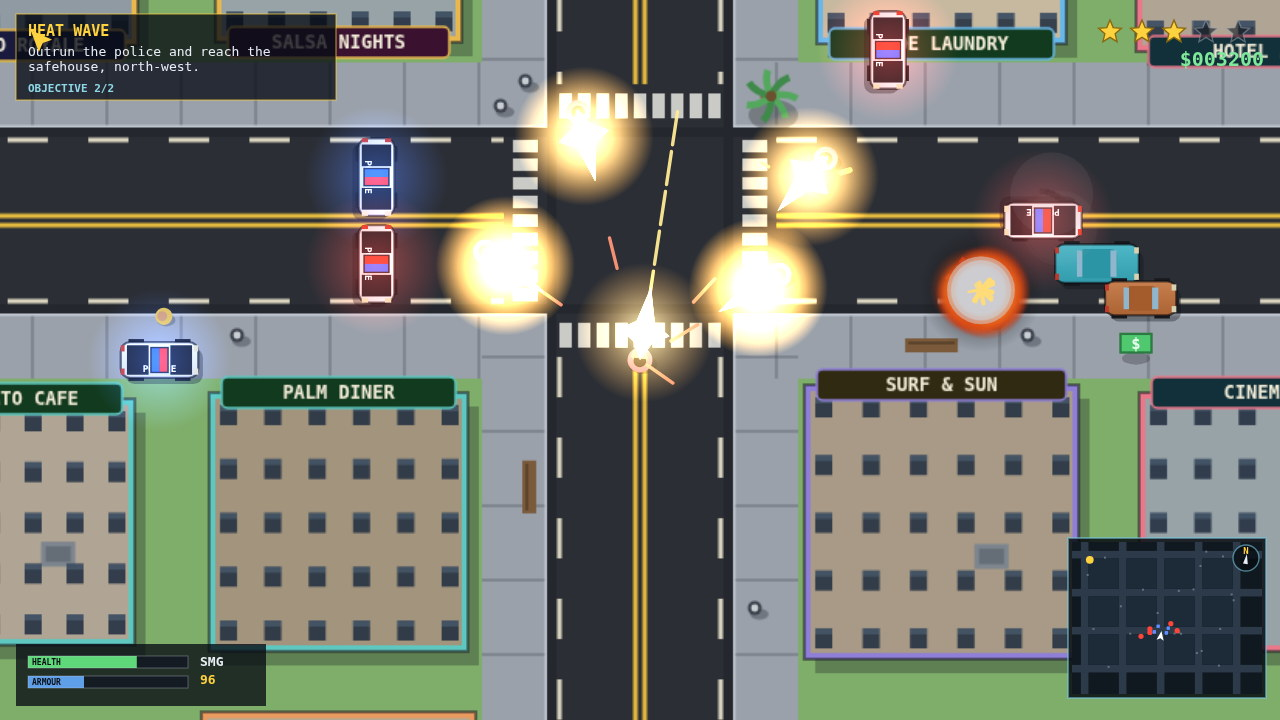
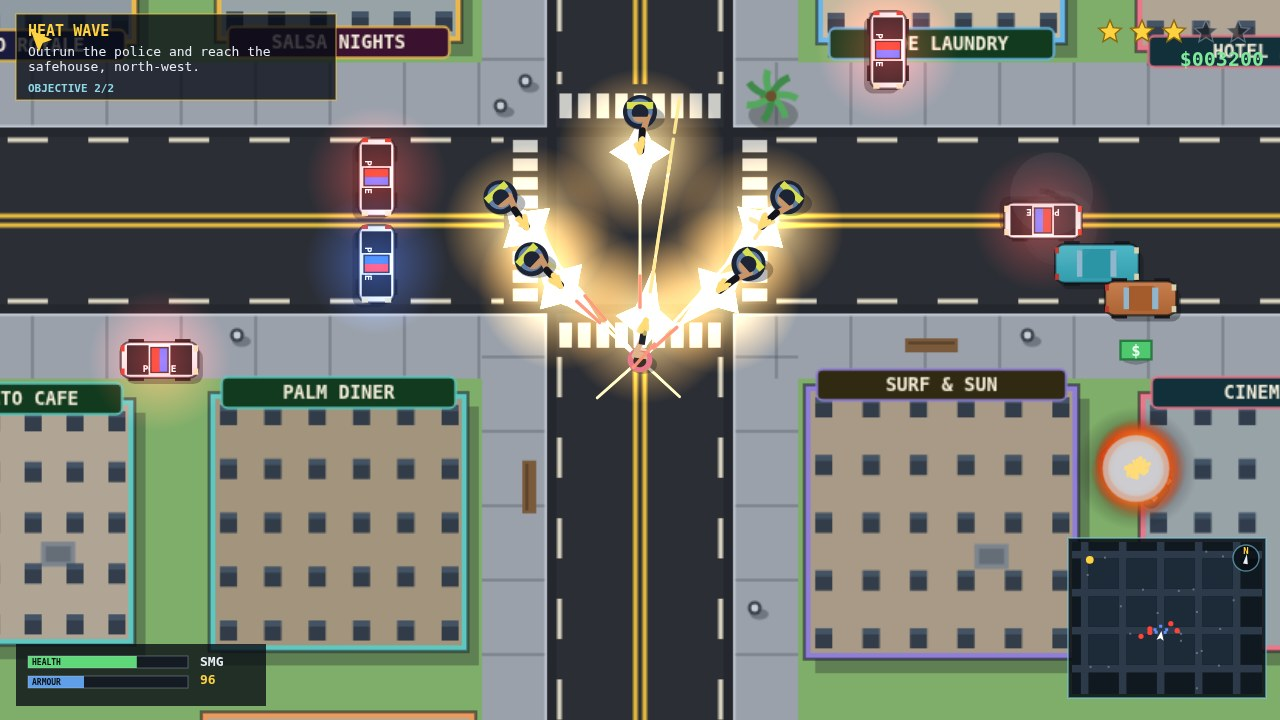
README with make.fun badges; re-shoot 03-foot so the police firefight reads
- Add repository README: three live gta6-01 badges, game overview, controls,
  run instructions and module layout.
- police.js: larger hi-vis officer silhouette (dark uniform, lighter vest,
  hi-vis shoulder band, badge, drawn weapon pointed at the player).
- effects.js: bigger/brighter staged muzzle flash with hot core, sparks and a
  thin tracer; split flashes into drawFlashes rendered under the actors so
  they no longer paint over the officers.
- main.js stageFoot: five-officer squad arc on the road/pavement by the
  crosswalk, fixed cast (no mid-tick deployments), camera shake reset, single
  explosion moved clear of the squad; muzzle flashes at true weapon muzzles.
- Re-capture only screenshots/03-foot.jpg (headless Chrome, port 8091).

diff --git a/game/src/main.js b/game/src/main.js
@@ -6,7 +6,7 @@ import { S, stars, addHeat, say } from "./state.js";
 import { reseed, rand, clamp, TAU } from "./math.js";
 import { W, H, AVENUES, STREETS, laneCoord } from "./world.js";
 import { generateCity } from "./citygen.js";
-import { applyCamera, updateCamera, setZoom, addShake } from "./camera.js";
+import { applyCamera, updateCamera, setZoom } from "./camera.js";
 import { initInput, keys, hit, endTick } from "./input.js";
 import { makePlayer, updatePlayer, drawPlayer } from "./player.js";
 import { populateTraffic, updateTraffic } from "./traffic.js";
@@ -16,7 +16,7 @@ import { makeCar, drawCar, spawnTrafficCar } from "./vehicles.js";
 import { driveCar, carCollisions } from "./driving.js";
 import { updateCombat } from "./combat.js";
 import { fireWeapon } from "./weapons.js";
-import { updateEffects, drawEffects, drawSkids, drawScorches, addSmoke, addSkid, addStagedFlash, addExplosion, clearEffects } from "./effects.js";
+import { updateEffects, drawEffects, drawFlashes, drawSkids, drawScorches, addSmoke, addSkid, addStagedFlash, addExplosion, clearEffects } from "./effects.js";
 import { nightFactor, drawLighting } from "./lighting.js";
 import { updateWeather, drawRain, setRain } from "./weather.js";
 import { drawMinimap } from "./minimap.js";
@@ -86,6 +86,7 @@ function render() {
   drawMissionMarkers(ctx, S.tick);
   drawPickups(ctx);
   drawPeds(ctx);
+  drawFlashes(ctx);
   drawCops(ctx);
   for (const c of S.cars) drawCar(ctx, c, S.tick, night);
   drawPlayer(ctx, S.tick);
@@ -339,20 +340,25 @@ function stageFoot() {
   p.health = 68; p.armor = 35;
   p.weapon = "smg"; p.ammo = { pistol: 60, smg: 96 };
   p.inCar = null;
-  p.x = 1400; p.y = 1490;           // south pavement of the central street
+  p.x = 1400; p.y = 1490;           // on the avenue just south of the central crosswalk
   p.aim = -Math.PI / 2 + 0.15;
 
-  // officers with drawn weapons
-  const copSpots = [[1300, 1420], [1490, 1435], [1360, 1330], [1520, 1360]];
+  // a squad of five officers closing in on the road and pavement around the
+  // crosswalk, spread in an arc north of the player so each reads clearly
+  const copSpots = [[1330, 1425], [1470, 1428], [1310, 1385], [1400, 1330], [1495, 1385]];
   for (const [x, y] of copSpots) spawnCop(x, y);
 
   // five cruisers: two form a roadblock across the street
   const rb1 = makeCar("cruiser", 1230, 1372, Math.PI / 2, { driver: null, parked: true, blocking: true, siren: true, color: "#e8eaee" });
   const rb2 = makeCar("cruiser", 1230, 1428, Math.PI / 2, { driver: null, parked: true, blocking: true, siren: true, color: "#e8eaee" });
   S.cars.push(rb1, rb2);
-  policeCruiser(1660, 1400, Math.PI);
-  policeCruiser(1090, 1490, 0);
-  policeCruiser(1560, 1290, Math.PI / 2);
+  const mobile = [
+    policeCruiser(1660, 1400, Math.PI),
+    policeCruiser(1090, 1490, 0),
+    policeCruiser(1560, 1290, Math.PI / 2),
+  ];
+  // keep the cast fixed: don't let cruisers deploy extra officers mid-ticks
+  for (const c of mobile) c.deployed = true;
 
   spawnCrowd(1400, 1400, 14);
   for (const pd of S.peds) pd.panic = 3;
@@ -368,33 +374,34 @@ function stageFoot() {
   p.health = 68; p.armor = 35;
   S.heat = 65;
   S.bullets.length = 0;
+  S.camera.shake = 0;               // police hits during ticks must not offset the frame
 
-  // re-assert framing after the sim ticks
+  // re-assert the squad: exactly the staged officers, in frame, weapons on the player
+  S.cops.length = Math.min(S.cops.length, copSpots.length);
   S.cops.forEach((c, i) => {
-    const s = copSpots[i % copSpots.length];
+    const s = copSpots[i];
     c.x = s[0]; c.y = s[1];
     c.angle = Math.atan2(p.y - c.y, p.x - c.x);
+    c.fireCd = 1;
   });
-  const mobile = S.cars.filter((c) => c.isPolice && !c.blocking);
   const mSpots = [[1660, 1400, Math.PI], [1090, 1490, 0], [1560, 1290, Math.PI / 2]];
   mobile.forEach((c, i) => {
-    const s = mSpots[i % mSpots.length];
+    const s = mSpots[i];
     c.x = s[0]; c.y = s[1]; c.angle = s[2];
   });
   rb1.x = 1230; rb1.y = 1372; rb2.x = 1230; rb2.y = 1428;
 
-  // capture-only long-lived muzzle flashes: player + every officer
-  const mx = p.x + Math.cos(p.aim) * 18, my = p.y + Math.sin(p.aim) * 18;
+  // capture-only long-lived muzzle flashes at the weapon muzzle: player + every officer
+  const mx = p.x + Math.cos(p.aim) * 26, my = p.y + Math.sin(p.aim) * 26;
   addStagedFlash(mx, my, p.aim);
   for (const c of S.cops) {
     const a = Math.atan2(p.y - c.y, p.x - c.x);
-    addStagedFlash(c.x + Math.cos(a) * 16, c.y + Math.sin(a) * 16, a);
+    addStagedFlash(c.x + Math.cos(a) * 26, c.y + Math.sin(a) * 26, a);
   }
   // tracers in flight both ways
   for (let i = 0; i < 5; i++) {
     const c = S.cops[i % S.cops.length];
     const a = Math.atan2(p.y - c.y, p.x - c.x);
-    const t = 0.25 + i * 0.12;
     S.bullets.push({
       x: c.x + Math.cos(a) * (60 + i * 22), y: c.y + Math.sin(a) * (60 + i * 22),
       vx: Math.cos(a) * 920, vy: Math.sin(a) * 920, life: 0.4, dmg: 14, team: "police",
@@ -404,12 +411,11 @@ function stageFoot() {
       vx: Math.cos(p.aim) * 980, vy: Math.sin(p.aim) * 980, life: 0.4, dmg: 9, team: "player",
     });
   }
-  // a burning wreck near the roadblock
-  addExplosion(1620, 1445, true);
-  const wreck = makeCar("sedan", 1620, 1445, 0.7, { parked: true });
+  // a single burning wreck, parked well clear of the squad so the firefight stays readable
+  addExplosion(1720, 1560, true);
+  const wreck = makeCar("sedan", 1720, 1560, 0.7, { parked: true });
   wreck.wrecked = true; wreck.color = "#3a3d42"; wreck.hp = 0;
   S.cars.push(wreck);
-  addShake(0);
   S.camera.x = p.x; S.camera.y = p.y;
 }
 

diff --git a/game/src/police.js b/game/src/police.js
@@ -164,27 +164,37 @@ export function drawCops(ctx) {
     ctx.save();
     ctx.translate(c.x, c.y);
     ctx.fillStyle = "rgba(15,17,24,0.3)";
-    ctx.beginPath(); ctx.ellipse(2, 3, 8, 5, 0, 0, Math.PI * 2); ctx.fill();
+    ctx.beginPath(); ctx.ellipse(3, 4, 13, 8, 0, 0, Math.PI * 2); ctx.fill();
     ctx.rotate(c.angle);
-    const step = Math.sin(c.phase) * 2.6;
+    const step = Math.sin(c.phase) * 3.2;
+    // legs
+    ctx.fillStyle = "#161d2c";
+    ctx.fillRect(-6 + step * 0.4, -8, 10, 5);
+    ctx.fillRect(-6 - step * 0.4, 3, 10, 5);
+    // dark uniform body
     ctx.fillStyle = "#1c2436";
-    ctx.fillRect(-4 + step * 0.4, -6, 7, 4);
-    ctx.fillRect(-4 - step * 0.4, 2, 7, 4);
-    ctx.fillStyle = "#2c4a7c";
-    ctx.beginPath(); ctx.arc(0, 0, 7.6, 0, Math.PI * 2); ctx.fill();
+    ctx.beginPath(); ctx.arc(0, 0, 11, 0, Math.PI * 2); ctx.fill();
+    // lighter tactical vest over the torso
+    ctx.fillStyle = "#5f7fa8";
+    ctx.beginPath(); ctx.arc(-0.5, 0, 8.2, 0, Math.PI * 2); ctx.fill();
+    // hi-vis band across the shoulders so the silhouette reads as police
+    ctx.fillStyle = "#d8e04f";
+    ctx.fillRect(-6.5, -8.5, 4.5, 17);
     // badge
     ctx.fillStyle = "#e8c33f";
-    ctx.fillRect(2, -4, 2.4, 2.4);
-    // drawn weapon
+    ctx.fillRect(3, -5, 3, 3);
+    // arm + drawn weapon: short dark line pointing at the player
     ctx.strokeStyle = "#c89468";
-    ctx.lineWidth = 3.2;
-    ctx.beginPath(); ctx.moveTo(2, -4); ctx.lineTo(12, -1); ctx.stroke();
-    ctx.fillStyle = "#181a1f";
-    ctx.fillRect(10, -2.2, 10, 3.8);
+    ctx.lineWidth = 4;
+    ctx.beginPath(); ctx.moveTo(3, -5); ctx.lineTo(14, -1.5); ctx.stroke();
+    ctx.strokeStyle = "#14161c";
+    ctx.lineWidth = 4.4;
+    ctx.beginPath(); ctx.moveTo(12, -1.5); ctx.lineTo(25, -0.5); ctx.stroke();
+    // head + cap
     ctx.fillStyle = "#c89468";
-    ctx.beginPath(); ctx.arc(1, 0, 4.4, 0, Math.PI * 2); ctx.fill();
+    ctx.beginPath(); ctx.arc(1.5, 0, 5.4, 0, Math.PI * 2); ctx.fill();
     ctx.fillStyle = "#1c2436";
-    ctx.beginPath(); ctx.arc(0.2, 0, 4.4, 1.1, Math.PI * 2 - 1.1); ctx.fill();
+    ctx.beginPath(); ctx.arc(0.4, 0, 5.4, 1.05, Math.PI * 2 - 1.05); ctx.fill();
     ctx.restore();
   }
 }

diff --git a/game/src/effects.js b/game/src/effects.js
@@ -39,10 +39,12 @@ export function addFlash(x, y, angle, size = 13, life = 0.06) {
   flashes.push({ x, y, angle, size, life, max: life });
 }
 
-// capture-only variant: long-lived so a frozen frame still shows the shot
+// capture-only variant: long-lived so a frozen frame still shows the shot.
+// Bigger and brighter than combat flashes, with sparks and a thin tracer line
+// so the exchange of fire reads in a still image.
 export function addStagedFlash(x, y, angle) {
-  flashes.push({ x, y, angle, size: 30, life: 0.9, max: 0.9 });
-  addSparks(x, y, 7, angle);
+  flashes.push({ x, y, angle, size: 36, life: 0.9, max: 0.9, staged: true });
+  addSparks(x, y, 10, angle);
 }
 
 export function addExplosion(x, y, staged = false) {
@@ -131,7 +133,11 @@ export function drawEffects(ctx) {
       ctx.stroke();
     }
   }
-  // muzzle flashes: 4-point star + glow
+}
+
+// Muzzle flashes are drawn as their own pass, BEFORE the actors, so a big
+// staged flash lights the ground around an officer without painting over them.
+export function drawFlashes(ctx) {
   for (const f of flashes) {
     const t = clamp((f.life / f.max) * 1.6, 0, 1);
     ctx.save();
@@ -155,6 +161,18 @@ export function drawEffects(ctx) {
     ctx.lineTo(f.size * 0.22, -f.size * 0.20);
     ctx.closePath();
     ctx.fill();
+    // hot white core for extra presence in a frozen frame
+    ctx.fillStyle = `rgba(255,255,240,${0.9 * t})`;
+    ctx.beginPath(); ctx.arc(f.size * 0.18, 0, f.size * 0.22, 0, TAU); ctx.fill();
+    if (f.staged) {
+      // thin tracer streaking out of the muzzle
+      ctx.strokeStyle = `rgba(255,238,170,${0.85 * t})`;
+      ctx.lineWidth = 1.8;
+      ctx.beginPath();
+      ctx.moveTo(f.size * 0.4, 0);
+      ctx.lineTo(f.size * 2.9, 0);
+      ctx.stroke();
+    }
     ctx.restore();
   }
 }

diff --git a/README.md b/README.md
@@ -1,0 +1,129 @@
+# neon-palms-20261121
+
+[![make.fun · gta6-01](https://make.fun/badge/gta6-01.svg)](https://make.fun/bounty/gta6-01?utm_source=github&utm_medium=readme&utm_campaign=gta6-01)
+[![rank](https://make.fun/badge/gta6-01/sopiahusen42/neon-palms-20261121/rank.svg)](https://make.fun/bounty/gta6-01/leaderboard?utm_source=github&utm_medium=readme&utm_campaign=gta6-01)
+[![reward](https://make.fun/badge/gta6-01/sopiahusen42/neon-palms-20261121/reward.svg)](https://make.fun/bounty/gta6-01?utm_source=github&utm_medium=readme&utm_campaign=gta6-01)
+
+**NEON PALMS** is a playable top-down open-world crime game built for the
+[make.fun](https://make.fun) bounty **gta6-01**. Sunshine, palm trees, bad
+decisions: you step off the bus into a pastel 1986-ish postcard town with an
+empty wallet and a crime problem. Steal cars, run jobs, shoot your way out of
+trouble, and try to stay ahead of the police.
+
+It is a single-screen HTML5 canvas game (1280×720) written in plain ES modules
+with no runtime dependencies — everything is drawn procedurally on a 2D
+context. The city, traffic, pedestrians and lighting are all generated in code.
+
+## What's in the game
+
+- **A generated open world.** A 3000×2400 city of avenues and streets, blocks
+  of buildings with shop signage, sidewalks, palm trees and street lamps,
+  built deterministically from a seed (`citygen.js`).
+- **Driving and carjacking.** Walk up to any car and press `E` to take it.
+  Traffic drives itself; you can drift with the handbrake and do drive-by
+  shooting. A speedometer appears while you're behind the wheel.
+- **Three staged missions**, offered at pink `?` markers:
+  - **REPO MAN** ($2500) — steal the red Banshee and deliver it to the docks.
+  - **SPECIAL DELIVERY** ($1800) — a timed package run from the Palm Diner to
+    the Sunset Motel before the coffee goes cold.
+  - **HEAT WAVE** ($4000) — hit the Ocean Bank, trip the alarm, and outrun
+    every cruiser in the city to the safehouse.
+- **A five-star wanted system.** Crime raises heat; stars = floor(heat/20).
+  Police cruisers spawn and chase with predictive pursuit, set up roadblocks
+  at three stars, and deploy officers on foot who close in and shoot when you
+  are on foot. Break contact and heat decays.
+- **Combat.** Two weapons — a semi-auto pistol and a full-auto SMG — with
+  bullets, muzzle flashes, tracers, sparks and explosions. Pedestrians panic
+  and flee; cars take damage and burn out.
+- **Pickups.** Floating health, armour, SMG ammo and cash pickups scattered
+  around town, each on a respawn timer.
+- **Atmosphere.** A day/night cycle (a full day passes in about five minutes),
+  dynamic lighting, rain with wet-road reflections, tyre smoke and persistent
+  skid marks.
+- **HUD.** Mission card with objective and timer, wanted stars, money,
+  health/armour bars, weapon and ammo, a speedometer while driving, a minimap
+  with police blips, and an offscreen objective arrow.
+- **Saving.** Money, completed jobs, loadout and time of day persist to
+  `localStorage` and reload when you start a new run.
+
+## Controls
+
+| Input | Action |
+| --- | --- |
+| `W A S D` | Move / drive |
+| `Mouse` | Aim |
+| `Click` | Fire (hold for the SMG) |
+| `Shift` | Sprint on foot |
+| `E` | Enter / exit a car |
+| `Space` | Handbrake |
+| `1` / `2` | Switch to pistol / SMG |
+| `P` | Pause |
+| `M` | Mute |
+| `Enter` | Start from the title screen |
+
+Find the pink `?` markers to start jobs. Crime raises your wanted level.
+
+## How to run
+
+The entry selects **Node 22** and ships a tiny zero-dependency launcher
+(`main.ts`) that serves the `game/` directory over HTTP:
+
+```sh
+node --experimental-strip-types main.ts
+# then open http://localhost:8080/
+```
+
+Set a different port with `PORT=9000 node --experimental-strip-types main.ts`.
+Node ≥ 22.6 strips the TypeScript types natively, so there is nothing to
+install or build.
+
+Because the game is just static files, any static file server pointed at
+`game/` works too (for example `python3 -m http.server` from inside `game/`).
+Open `index.html` and press `Enter` to play.
+
+### Self-test and staged screenshots
+
+`main.js` exposes two URL modes used for verification and capture:
+
+- `?probe=1` — a headless self-test that exercises movement, traffic, the
+  wanted system, combat, missions, save/load and effects, and prints PASS/FAIL
+  checks.
+- `?shot=<mode>` — a deterministic staged scene rendered for a single frozen
+  frame, where `mode` is `cover`, `chase`, `foot` or `title`. These are the
+  four screenshots in `screenshots/`, captured with headless Chrome.
+
+## Module layout
+
+All game code lives in `game/src/` as 29 ES modules. `main.js` boots the world,
+runs a fixed-step simulation loop and orders the render passes.
+
+| Area | Modules |
+| --- | --- |
+| Core | `math`, `state`, `world`, `camera`, `input` |
+| City | `citygen`, `roads`, `buildings`, `props` |
+| Actors | `vehicles`, `traffic`, `pedestrians`, `player`, `police` |
+| Action | `combat`, `weapons`, `driving`, `effects` |
+| Atmosphere | `lighting`, `weather` |
+| Interface | `minimap`, `hud`, `ui`, `story` |
+| Game flow | `missions`, `pickups`, `save`, `audio` |
+| Entry | `main` |
+
+`state.js` holds the single mutable state object every module reads and writes;
+`story.js` carries the narrative text (title lore, mission intros/outros and
+stage barks).
+
+## Screenshots
+
+The four frames in `screenshots/` are genuine renders of the staged capture
+modes: `01-cover.jpg` (night drift), `02-chase.jpg` (dusk pursuit),
+`03-foot.jpg` (on-foot firefight with the police squad) and `04-title.jpg`
+(dusk establishing shot).
+
+## License
+
+MIT — see [LICENSE](LICENSE).
+
+---
+
+This is an entry for the **gta6-01** bounty on [make.fun](https://make.fun) —
+visit [make.fun](https://make.fun) for the competition entry page.
